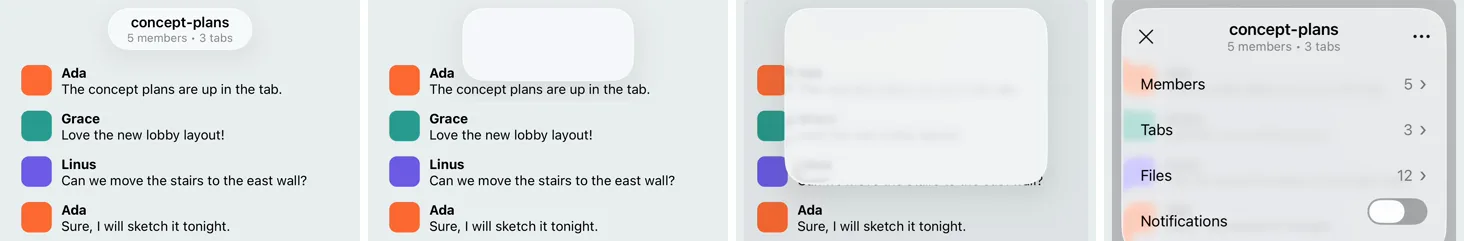
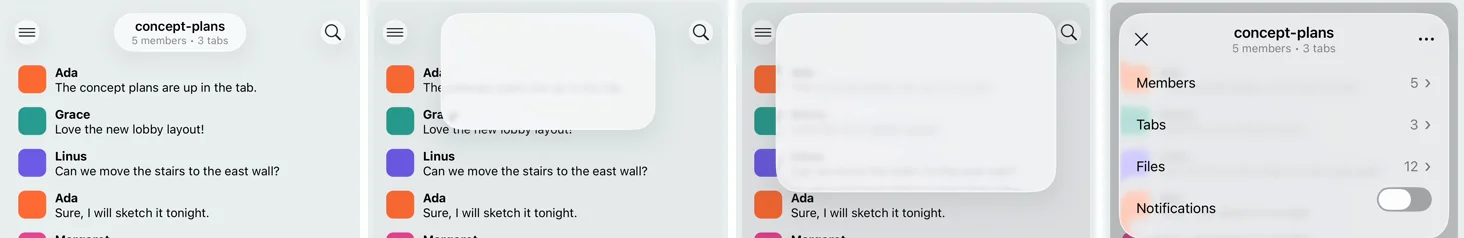
fix(GlassDisclosure): size the glass container to the closed pill
On iOS 26 the LiquidGlassContainer stretched across the overlay while
the disclosure was closed, so a native view one pill high covered
everything beside the pill. Touches passed through (box-none), but
Detox counted header buttons next to the pill as hidden.

The container now takes the pill's size while closed and stretches only
while the panel is open. The glass sits at the container's origin in
both states and both frames change in the same spring, so the glass
never leaves its container and the morph is kept (checked frame by
frame in a Release build).

The example's channel card gets header buttons beside the pill, and the
Glass Disclosure e2e flow checks they pass toBeVisible() while closed.

Closes #148

diff --git a/example/src/GlassDisclosureDemo.tsx b/example/src/GlassDisclosureDemo.tsx
@@ -14,6 +14,16 @@ const MORE_ICON: PlatformIcon = {
   android: { type: 'drawable', name: 'more_vert' },
 };
 
+const CHANNELS_ICON: PlatformIcon = {
+  ios: { type: 'sfSymbol', name: 'line.3.horizontal' },
+  android: { type: 'drawable', name: 'list_bullet' },
+};
+
+const SEARCH_ICON: PlatformIcon = {
+  ios: { type: 'sfSymbol', name: 'magnifyingglass' },
+  android: { type: 'drawable', name: 'search' },
+};
+
 const MORE_MENU = [
   { id: 'copy', title: 'Copy link' },
   { id: 'star', title: 'Star channel' },
@@ -60,6 +70,8 @@ export function GlassDisclosureDemo(): React.ReactElement {
     setLastEvent(open ? 'Expanded' : 'Collapsed');
   };
 
+  const headerVariant = isLiquidGlassSupported ? 'glass' : 'text';
+
   return (
     <View>
       <Section title="Channel card">
@@ -83,6 +95,27 @@ export function GlassDisclosureDemo(): React.ReactElement {
                 </View>
               </View>
             ))}
+          </View>
+
+          {/* A screen header: buttons on either side of the closed pill,
+              which must stay visible and tappable beside it */}
+          <View style={styles.header}>
+            <Button
+              testID="disclosure-header-channels"
+              icon={CHANNELS_ICON}
+              accessibilityLabel="Channels"
+              variant={headerVariant}
+              shape="round"
+              onPress={() => setLastEvent('Channels')}
+            />
+            <Button
+              testID="disclosure-header-search"
+              icon={SEARCH_ICON}
+              accessibilityLabel="Search"
+              variant={headerVariant}
+              shape="round"
+              onPress={() => setLastEvent('Search')}
+            />
           </View>
 
           <GlassDisclosure
@@ -180,6 +213,17 @@ const styles = StyleSheet.create({
   avatar: { width: 32, height: 32, borderRadius: 8 },
   from: { fontSize: 14, fontWeight: '700' },
   text: { fontSize: 14 },
+  // The pill's row: the overlay's padding, and the pill's 44 pt height
+  header: {
+    position: 'absolute',
+    top: 12,
+    left: 10,
+    right: 10,
+    minHeight: 44,
+    flexDirection: 'row',
+    alignItems: 'center',
+    justifyContent: 'space-between',
+  },
   overlay: { paddingTop: 12, paddingHorizontal: 10 },
   row: {
     flexDirection: 'row',

diff --git a/example/e2e/component.test.ts b/example/e2e/component.test.ts
@@ -2431,13 +2431,31 @@ describe('Platform Components Example', () => {
       await waitFor(panelRow).toBeVisible().withTimeout(5000);
       await expectText('disclosure-last-event', 'Expanded');
     };
+    // The header buttons on either side of the closed pill: nothing of the
+    // disclosure covers them (#148)
+    const headerButtons = [
+      element(by.id('disclosure-header-channels')),
+      element(by.id('disclosure-header-search')),
+    ];
+    const expectHeaderVisible = async () => {
+      for (const button of headerButtons) {
+        await waitFor(button).toBeVisible().withTimeout(5000);
+      }
+    };
     const expectClosed = async () => {
       await expectText('disclosure-last-event', 'Collapsed');
       await waitFor(element(by.id('disclosure-pill')))
         .toBeVisible()
         .withTimeout(5000);
       await expect(panelRow).not.toExist();
+      await expectHeaderVisible();
     };
+
+    await expectHeaderVisible();
+    await headerButtons[0]!.tap();
+    await expectText('disclosure-last-event', 'Channels');
+    await headerButtons[1]!.tap();
+    await expectText('disclosure-last-event', 'Search');
 
     // The pill opens into a panel of React content
     await open();

diff --git a/src/__tests__/GlassDisclosure.test.tsx b/src/__tests__/GlassDisclosure.test.tsx
@@ -2,6 +2,7 @@ import {
   AccessibilityInfo,
   BackHandler,
   Pressable,
+  StyleSheet,
   Text,
   View,
 } from 'react-native';
@@ -198,6 +199,24 @@ describe('GlassDisclosure', () => {
     rerender(tree, { expanded: false });
     settle();
     expect(overlayChildren(tree)).toEqual(before);
+  });
+
+  it('sizes the glass container to the pill while closed', () => {
+    // A container across the overlay would cover the views beside the pill
+    // (iOS visibility checks count it, though it passes touches through)
+    const alignSelf = (tree: renderer.ReactTestRenderer) =>
+      StyleSheet.flatten(containers(tree)[0]!.props.style).alignSelf;
+    const tree = render({});
+    expect(alignSelf(tree)).toBe('center');
+
+    rerender(tree, { expanded: true });
+    expect(alignSelf(tree)).toBe('stretch');
+
+    // It shrinks with the glass, once the panel's content has faded
+    rerender(tree, { expanded: false });
+    expect(alignSelf(tree)).toBe('stretch');
+    settle();
+    expect(alignSelf(tree)).toBe('center');
   });
 
   it('keeps the panel until its content has faded, then shrinks to the pill', () => {

diff --git a/src/GlassDisclosureCore.tsx b/src/GlassDisclosureCore.tsx
@@ -336,7 +336,14 @@ export function GlassDisclosureCore(
       outputRange: [0.96, 1],
     });
     disclosure = (
-      <LiquidGlassContainer style={styles.anchor} pointerEvents="box-none">
+      // The container is the glass's own size: the pill's while closed, so
+      // no native view covers what lies beside the pill, and the panel's
+      // while open. Its frame changes with the glass's in the same morph,
+      // and the glass stays at its origin, so the glass never leaves it.
+      <LiquidGlassContainer
+        style={open ? styles.anchor : styles.pill}
+        pointerEvents="box-none"
+      >
         <LiquidGlass
           style={[open ? [styles.panel, panelStyle] : styles.pill, styles.clip]}
           cornerStyle={open ? 'concentric' : 'capsule'}

diff --git a/docs/docs/components/glassdisclosure.md b/docs/docs/components/glassdisclosure.md
@@ -58,9 +58,13 @@ function ChannelScreen() {
 
 ### Placement
 
-The component fills its parent (`StyleSheet.absoluteFill`) and is transparent to touches while the pill is closed: only the pill takes them. The pill sits at the top, centered, and the panel opens down from there across the full width. Pad the component through `style` to place them: the safe area at the top, the screen's margins at the sides.
+The component fills its parent (`StyleSheet.absoluteFill`) and is transparent to touches while the pill is closed: only the pill takes them. Nothing it draws reaches past the closed pill, so views beside the pill, such as a screen header's buttons, stay tappable and visible to UI tests (Detox `toBeVisible()`). The pill sits at the top, centered, and the panel opens down from there across the full width. Pad the component through `style` to place them: the safe area at the top, the screen's margins at the sides.
 
 Render it last in a screen-sized parent. The backdrop behind the open panel covers that parent, and a React Native view can't take touches outside its parent, so a GlassDisclosure inside a small view can only dim and dismiss from that view.
+
+| In a screen header: the pill between the header's buttons, then open over them. iOS 26 (top) and Android (bottom), light and dark |
+| --- |
+| ![Four iOS shots and four Android shots: the closed pill between a menu button and a search button above a chat, the open panel over the dimmed chat, then the same two in dark mode](/img/components/glassdisclosure/header-light-dark.webp) |
 
 ### Props
 
@@ -99,7 +103,7 @@ Render it last in a screen-sized parent. The backdrop behind the open panel cove
 
 | iOS 26: the capsule grows into the panel, and the content fades in once the glass has grown |
 | --- |
-| ![The glass pill over a chat, then a wider glass shape growing out of it, then the full panel with a close button, the title and rows of members, tabs, files and notifications](/img/components/glassdisclosure/morph-ios.webp) |
+| ![The glass pill between a menu button and a search button over a chat, then a wider glass shape growing out of it, then the full panel with a close button, the title and rows of members, tabs, files and notifications](/img/components/glassdisclosure/morph-ios.webp) |
 
 | iOS 18 (closed, open) | Android (closed, open) |
 | --- | --- |
